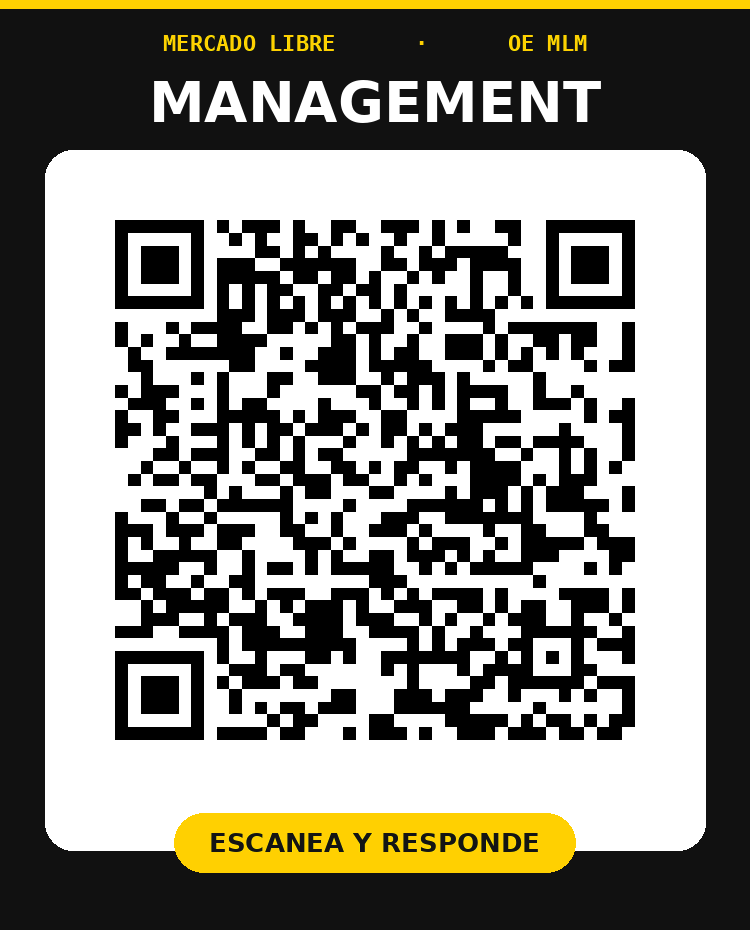
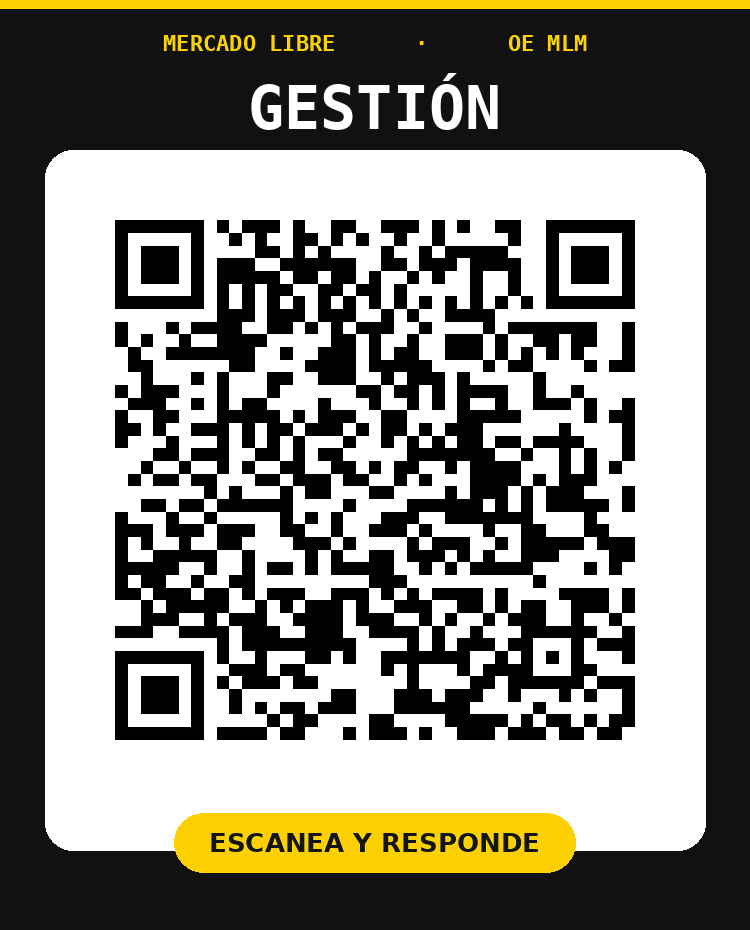
Calendario: color neutro para rutina de newsletter; corregir QR de Gestion (Management -> Gestion); actualizar README

Changed region(s): [[0.184, 0.0624, 0.7973, 0.1559]]

diff --git a/index.html b/index.html
@@ -297,10 +297,7 @@
     background: var(--yellow-bg); color:var(--yellow-dark); font-weight:800; font-size:11px;
     border-radius:8px; padding:8px 10px; text-align:center; min-width:52px; line-height:1.2;
   }
-  .date-chip.c-fm { background: var(--tag-fm-bg); color: var(--tag-fm); }
-  .date-chip.c-svc { background: var(--tag-svc-bg); color: var(--tag-svc); }
-  .date-chip.c-mgmt { background: var(--tag-mgmt-bg); color: var(--tag-mgmt); }
-  .date-chip.c-quality { background: var(--tag-quality-bg); color: var(--tag-quality); }
+  .date-chip.oe { background: var(--yellow-bg); color: var(--yellow-dark); }
   .date-chip.cal-holiday-chip { background:#FCE4E4; color:#C0392B; }
   .date-item-text { font-size:12.5px; color:var(--dark); line-height:1.4; }
 
@@ -315,25 +312,16 @@
   .cal-cell { aspect-ratio:1; border-radius:8px; background:var(--light-bg); display:flex; flex-direction:column; align-items:center; justify-content:center; gap:3px; font-size:11.5px; color:#555; }
   .cal-cell.empty { background:none; }
   .cal-cell.cal-holiday { background:#FCE4E4; color:#C0392B; font-weight:800; }
-  .cal-cell.cal-oe-c-fm { background: var(--tag-fm-bg); color: var(--tag-fm); font-weight:800; }
-  .cal-cell.cal-oe-c-svc { background: var(--tag-svc-bg); color: var(--tag-svc); font-weight:800; }
-  .cal-cell.cal-oe-c-mgmt { background: var(--tag-mgmt-bg); color: var(--tag-mgmt); font-weight:800; }
-  .cal-cell.cal-oe-c-quality { background: var(--tag-quality-bg); color: var(--tag-quality); font-weight:800; }
+  .cal-cell.cal-oe-oe { background: var(--yellow-bg); color: var(--yellow-dark); font-weight:800; }
   .cal-cell.cal-today { outline:2px solid var(--yellow-dark); outline-offset:-1px; font-weight:800; }
   .cal-daynum { line-height:1; }
   .cal-dots { display:flex; gap:2px; height:5px; }
   .cal-dot { width:5px; height:5px; border-radius:50%; background:#999; }
-  .cal-dot.c-fm { background: var(--tag-fm); }
-  .cal-dot.c-svc { background: var(--tag-svc); }
-  .cal-dot.c-mgmt { background: var(--tag-mgmt); }
-  .cal-dot.c-quality { background: var(--tag-quality); }
+  .cal-dot.oe { background: var(--yellow-dark); }
   .cal-side { flex:1 1 300px; min-width:260px; display:flex; flex-direction:column; gap:0; max-height:460px; overflow:auto; background:var(--white); border:1px solid var(--border); border-radius:12px; }
   .cal-side-hdr { padding:13px 16px 11px; font-size:10.5px; font-weight:800; text-transform:uppercase; letter-spacing:.08em; color:#999; border-bottom:1px solid var(--border); }
   .cal-side .date-item { padding:13px 16px; border-left:4px solid transparent; gap:14px; }
-  .cal-side .date-item.row-c-fm { border-left-color: var(--tag-fm); background: var(--tag-fm-bg); }
-  .cal-side .date-item.row-c-svc { border-left-color: var(--tag-svc); background: var(--tag-svc-bg); }
-  .cal-side .date-item.row-c-mgmt { border-left-color: var(--tag-mgmt); background: var(--tag-mgmt-bg); }
-  .cal-side .date-item.row-c-quality { border-left-color: var(--tag-quality); background: var(--tag-quality-bg); }
+  .cal-side .date-item.row-oe { border-left-color: var(--yellow-dark); background: var(--yellow-bg); }
   .cal-side .date-item.row-holiday { border-left-color: #C0392B; background: #FCE4E4; }
   .cal-side .date-chip { font-size:12.5px; padding:9px 10px; min-width:56px; }
   .cal-side .date-item-text { font-size:13.5px; font-weight:700; color:var(--dark); }
@@ -1834,13 +1822,13 @@
     var pub = new Date(year, month, miguel);
     pub.setDate(pub.getDate() + 1);
     var out = [
-      { day: focales, color: 'c-fm', label: 'Focales actualizan su proyecto (y MELI Axis) — último lunes del mes' },
-      { day: supervisores, color: 'c-svc', label: 'Supervisores cargan el Form — primer miércoles del mes' },
-      { day: managers, color: 'c-mgmt', label: 'Managers revisan y autorizan — primer viernes del mes' },
-      { day: miguel, color: 'c-quality', label: 'Miguel da la autorización final — segundo martes del mes' }
+      { day: focales, color: 'oe', label: 'Focales actualizan su proyecto (y MELI Axis) — último lunes del mes' },
+      { day: supervisores, color: 'oe', label: 'Supervisores cargan el Form — primer miércoles del mes' },
+      { day: managers, color: 'oe', label: 'Managers revisan y autorizan — primer viernes del mes' },
+      { day: miguel, color: 'oe', label: 'Miguel da la autorización final — segundo martes del mes' }
     ];
     if (pub.getMonth() === month) {
-      out.push({ day: pub.getDate(), color: '', label: 'Se publica a todo MLM (día siguiente a la autorización)' });
+      out.push({ day: pub.getDate(), color: 'oe', label: 'Se publica a todo MLM (día siguiente a la autorización)' });
     }
     return out;
   }
